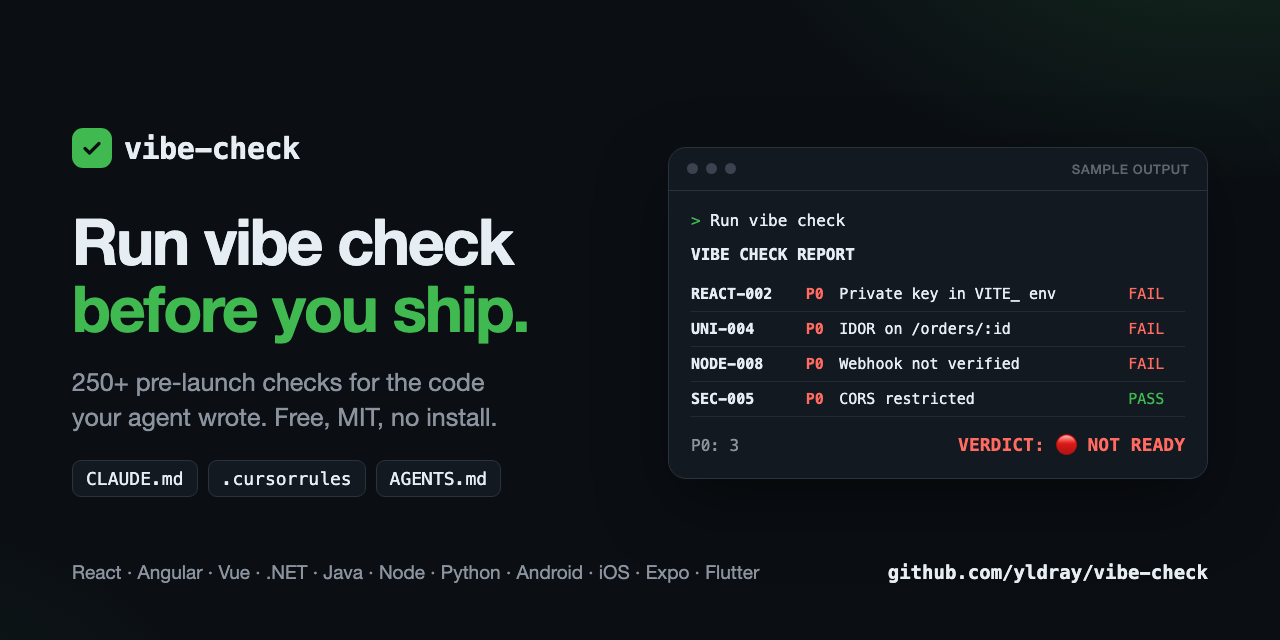
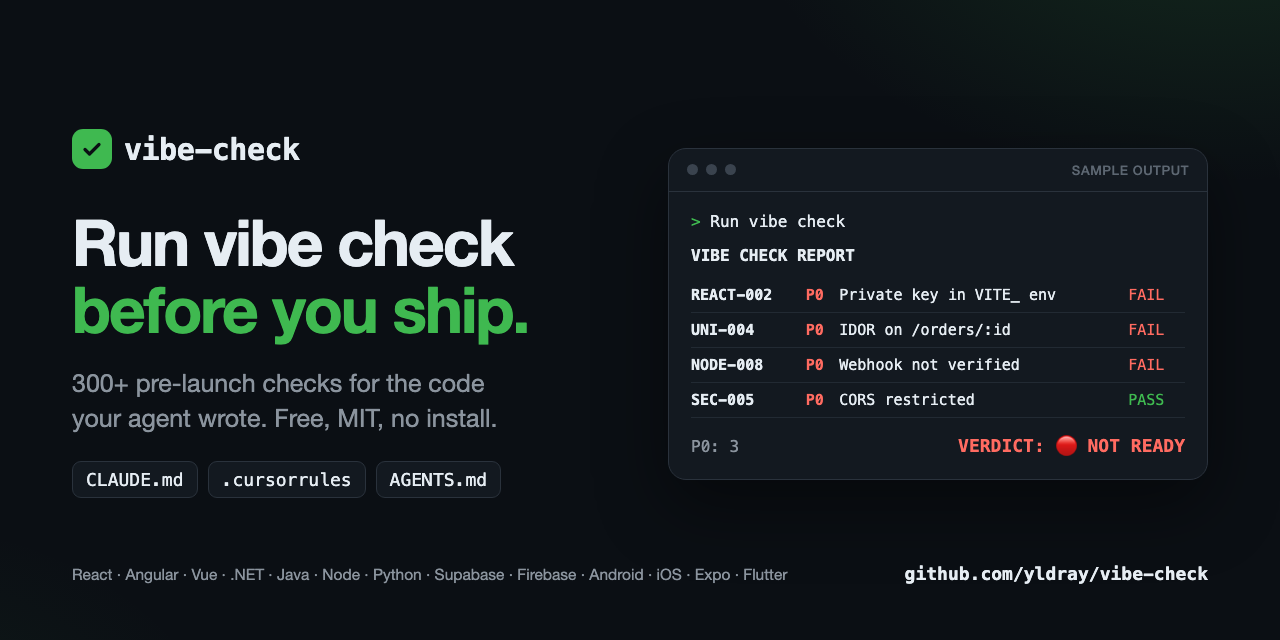
Wire new checks into the agent, README and preview image
Agent detects supabase/config.toml and firebase.json, reads auth-flows.md
and jobs-and-deploy.md always and payments.md when the app takes payments,
and lists the new universal P0s. README: 14 stacks; image says 300+ checks
(324 IDs).

diff --git a/agents/AGENTS.md b/agents/AGENTS.md
@@ -5,7 +5,7 @@
 When the user says **"vibe check"**, **"pre-launch check"** or asks if the project is ready to ship, run this audit.
 
 ## Step 1 — Detect the stack
-Read package.json, *.csproj, pom.xml / build.gradle, requirements.txt / pyproject.toml, app.json / app.config.*, pubspec.yaml, AndroidManifest.xml, Info.plist. List the stacks you found.
+Read package.json, *.csproj, pom.xml / build.gradle, requirements.txt / pyproject.toml, app.json / app.config.*, pubspec.yaml, AndroidManifest.xml, Info.plist, supabase/config.toml, firebase.json. List the stacks you found.
 
 ## Step 2 — Universal checks (always run)
 
@@ -30,6 +30,11 @@ Read package.json, *.csproj, pom.xml / build.gradle, requirements.txt / pyprojec
 - [ ] `LEGAL-002` Users can delete their account and data (if the app has accounts)
 - [ ] `QA-008` Main flow works end to end on production with a fresh account (sign up, verify, main action, payment)
 - [ ] `QA-009` Transactional e-mails arrive and their links point to production, not localhost (if the app sends e-mail)
+- [ ] `AUTH-001` Tokens are verified (signature, algorithm, expiry), not just decoded
+- [ ] `AUTH-002` Reset links and one-time codes expire, work once and are stored hashed
+- [ ] `OPS-001` Migrations are reviewed as SQL before deploy and don't break the running version
+- [ ] `PAY-001` `PAY-002` `PAY-003` Price, access and premium status are decided on the server, never by the client or the success page (if the app takes payments)
+- [ ] `PAY-007` Test and live payment keys are separate per environment (if the app takes payments)
 
 ### P1
 - [ ] `UNI-010` List endpoints are paginated
@@ -39,7 +44,7 @@ Read package.json, *.csproj, pom.xml / build.gradle, requirements.txt / pyprojec
 ## Step 3 — Stack-specific checks
 Fetch files from `https://raw.githubusercontent.com/yldray/vibe-check/main/<path>`. Use `curl -fsSL <url>` or another tool that returns the file byte for byte. A fetch tool that summarizes pages can drop or reword checks; use it only when you have no shell.
 
-Always read `00-universal/ai-code-pitfalls.md`, `security-baseline.md`, `env-and-config.md`, `legal-privacy.md`, `qa-ux.md`.
+Always read `00-universal/ai-code-pitfalls.md`, `security-baseline.md`, `env-and-config.md`, `legal-privacy.md`, `qa-ux.md`, `auth-flows.md`, `jobs-and-deploy.md`. If the app takes payments, also read `payments.md`.
 
 For each detected stack, read `_common/checklist.md` of its group plus `chronic-issues.md` and `test-cases.md` in its folder:
 
@@ -53,6 +58,8 @@ For each detected stack, read `_common/checklist.md` of its group plus `chronic-
 | Java Spring | `02-backend/java-spring/` |
 | Node.js | `02-backend/node/` |
 | Python | `02-backend/python/` |
+| Supabase | `02-backend/supabase/` |
+| Firebase | `02-backend/firebase/` |
 | Android (Kotlin) | `03-mobile/android-native/` |
 | iOS (Swift) | `03-mobile/ios-native/` |
 | React Native / Expo | `03-mobile/react-native-expo/` |

diff --git a/agents/CLAUDE.md b/agents/CLAUDE.md
@@ -5,7 +5,7 @@
 When the user says **"vibe check"**, **"pre-launch check"** or asks if the project is ready to ship, run this audit.
 
 ## Step 1 — Detect the stack
-Read package.json, *.csproj, pom.xml / build.gradle, requirements.txt / pyproject.toml, app.json / app.config.*, pubspec.yaml, AndroidManifest.xml, Info.plist. List the stacks you found.
+Read package.json, *.csproj, pom.xml / build.gradle, requirements.txt / pyproject.toml, app.json / app.config.*, pubspec.yaml, AndroidManifest.xml, Info.plist, supabase/config.toml, firebase.json. List the stacks you found.
 
 ## Step 2 — Universal checks (always run)
 
@@ -30,6 +30,11 @@ Read package.json, *.csproj, pom.xml / build.gradle, requirements.txt / pyprojec
 - [ ] `LEGAL-002` Users can delete their account and data (if the app has accounts)
 - [ ] `QA-008` Main flow works end to end on production with a fresh account (sign up, verify, main action, payment)
 - [ ] `QA-009` Transactional e-mails arrive and their links point to production, not localhost (if the app sends e-mail)
+- [ ] `AUTH-001` Tokens are verified (signature, algorithm, expiry), not just decoded
+- [ ] `AUTH-002` Reset links and one-time codes expire, work once and are stored hashed
+- [ ] `OPS-001` Migrations are reviewed as SQL before deploy and don't break the running version
+- [ ] `PAY-001` `PAY-002` `PAY-003` Price, access and premium status are decided on the server, never by the client or the success page (if the app takes payments)
+- [ ] `PAY-007` Test and live payment keys are separate per environment (if the app takes payments)
 
 ### P1
 - [ ] `UNI-010` List endpoints are paginated
@@ -39,7 +44,7 @@ Read package.json, *.csproj, pom.xml / build.gradle, requirements.txt / pyprojec
 ## Step 3 — Stack-specific checks
 Fetch files from `https://raw.githubusercontent.com/yldray/vibe-check/main/<path>`. Use `curl -fsSL <url>` or another tool that returns the file byte for byte. A fetch tool that summarizes pages can drop or reword checks; use it only when you have no shell.
 
-Always read `00-universal/ai-code-pitfalls.md`, `security-baseline.md`, `env-and-config.md`, `legal-privacy.md`, `qa-ux.md`.
+Always read `00-universal/ai-code-pitfalls.md`, `security-baseline.md`, `env-and-config.md`, `legal-privacy.md`, `qa-ux.md`, `auth-flows.md`, `jobs-and-deploy.md`. If the app takes payments, also read `payments.md`.
 
 For each detected stack, read `_common/checklist.md` of its group plus `chronic-issues.md` and `test-cases.md` in its folder:
 
@@ -53,6 +58,8 @@ For each detected stack, read `_common/checklist.md` of its group plus `chronic-
 | Java Spring | `02-backend/java-spring/` |
 | Node.js | `02-backend/node/` |
 | Python | `02-backend/python/` |
+| Supabase | `02-backend/supabase/` |
+| Firebase | `02-backend/firebase/` |
 | Android (Kotlin) | `03-mobile/android-native/` |
 | iOS (Swift) | `03-mobile/ios-native/` |
 | React Native / Expo | `03-mobile/react-native-expo/` |

diff --git a/README.md b/README.md
@@ -5,7 +5,7 @@
 **Ship AI-written code without shipping AI-written bugs.**
 
 Pre-launch test cases, chronic bugs and store-release rules for vibe coders.
-React · Angular · Vue · .NET · Java · Node · Python · Android · iOS · Expo · Flutter
+React · Angular · Vue · .NET · Java · Node · Python · Supabase · Firebase · Android · iOS · Expo · Flutter
 
 ![License](https://img.shields.io/badge/license-MIT-green) ![PRs welcome](https://img.shields.io/badge/PRs-welcome-brightgreen) ![Made for](https://img.shields.io/badge/made%20for-Claude%20Code%20%7C%20Cursor%20%7C%20Copilot-purple) [![VirusTotal](https://img.shields.io/badge/VirusTotal-scanned%20every%20release-394EFF)](https://github.com/yldray/vibe-check/releases/latest)
 
@@ -67,9 +67,9 @@ Everything here is plain Markdown you can read. The whole agent behavior is one 
 
 | Folder | What you get |
 |---|---|
-| [`00-universal`](00-universal/) | Checks for every project: security, env, performance, a11y, privacy, QA / UX, AI pitfalls |
+| [`00-universal`](00-universal/) | Checks for every project: security, auth flows, payments, jobs & deploys, env, performance, a11y, privacy, QA / UX, AI pitfalls |
 | [`01-frontend`](01-frontend/) | React, Angular, Vue, vanilla JS |
-| [`02-backend`](02-backend/) | .NET, Java Spring, Node, Python |
+| [`02-backend`](02-backend/) | .NET, Java Spring, Node, Python, Supabase, Firebase |
 | [`03-mobile`](03-mobile/) | Android, iOS, React Native / Expo, Flutter |
 | [`04-release`](04-release/) | Google Play, App Store and web deploy rules |
 | [`agents`](agents/) | Drop-in files for AI coding agents |
@@ -88,11 +88,11 @@ Every stack folder has the same 4 files:
 |---|---|
 | Universal · Release | ✅ Complete |
 | React · Node · Expo | ✅ Complete |
-| Angular · Vue · .NET · Java · Python · Android · iOS · Flutter | 🌱 Seeded, needs contributors |
+| Angular · Vue · .NET · Java · Python · Supabase · Firebase · Android · iOS · Flutter | 🌱 Seeded, needs contributors |
 
 ## 🤝 Contributing
 
-Seen an AI break the same thing twice? That's a test case. 8 of the 12 stacks are only seeded, so every real bug helps.
+Seen an AI break the same thing twice? That's a test case. 10 of the 14 stacks are only seeded, so every real bug helps.
 
 **No time for a PR?** [Open an issue](https://github.com/yldray/vibe-check/issues/new?template=new-test-case.md) with the "New test case" template. Someone will turn it into a check.
 
